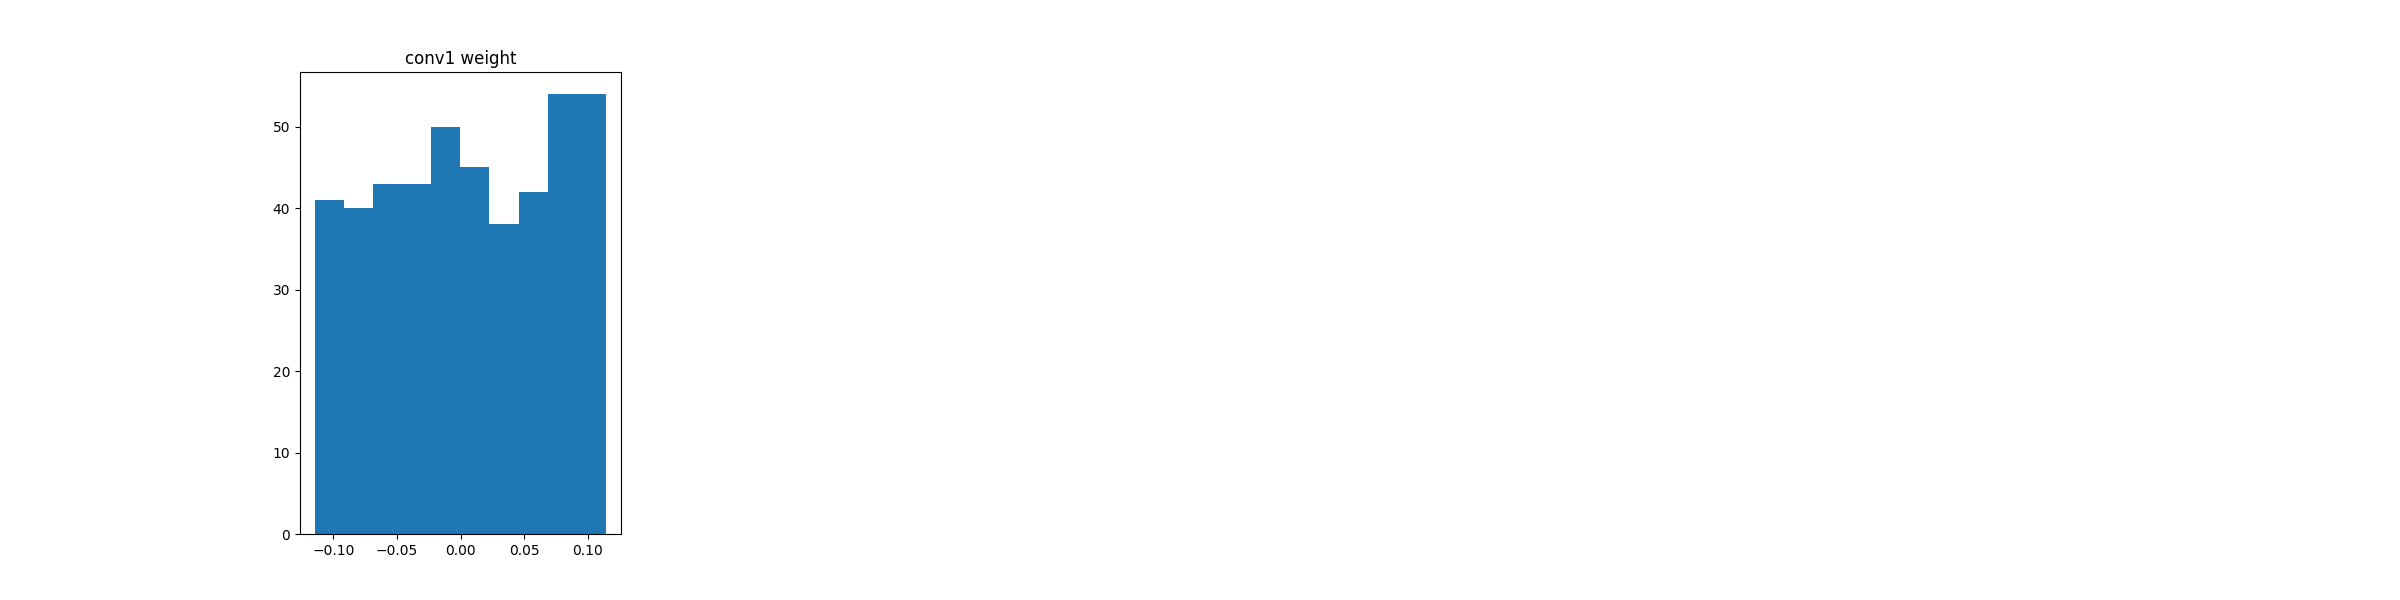
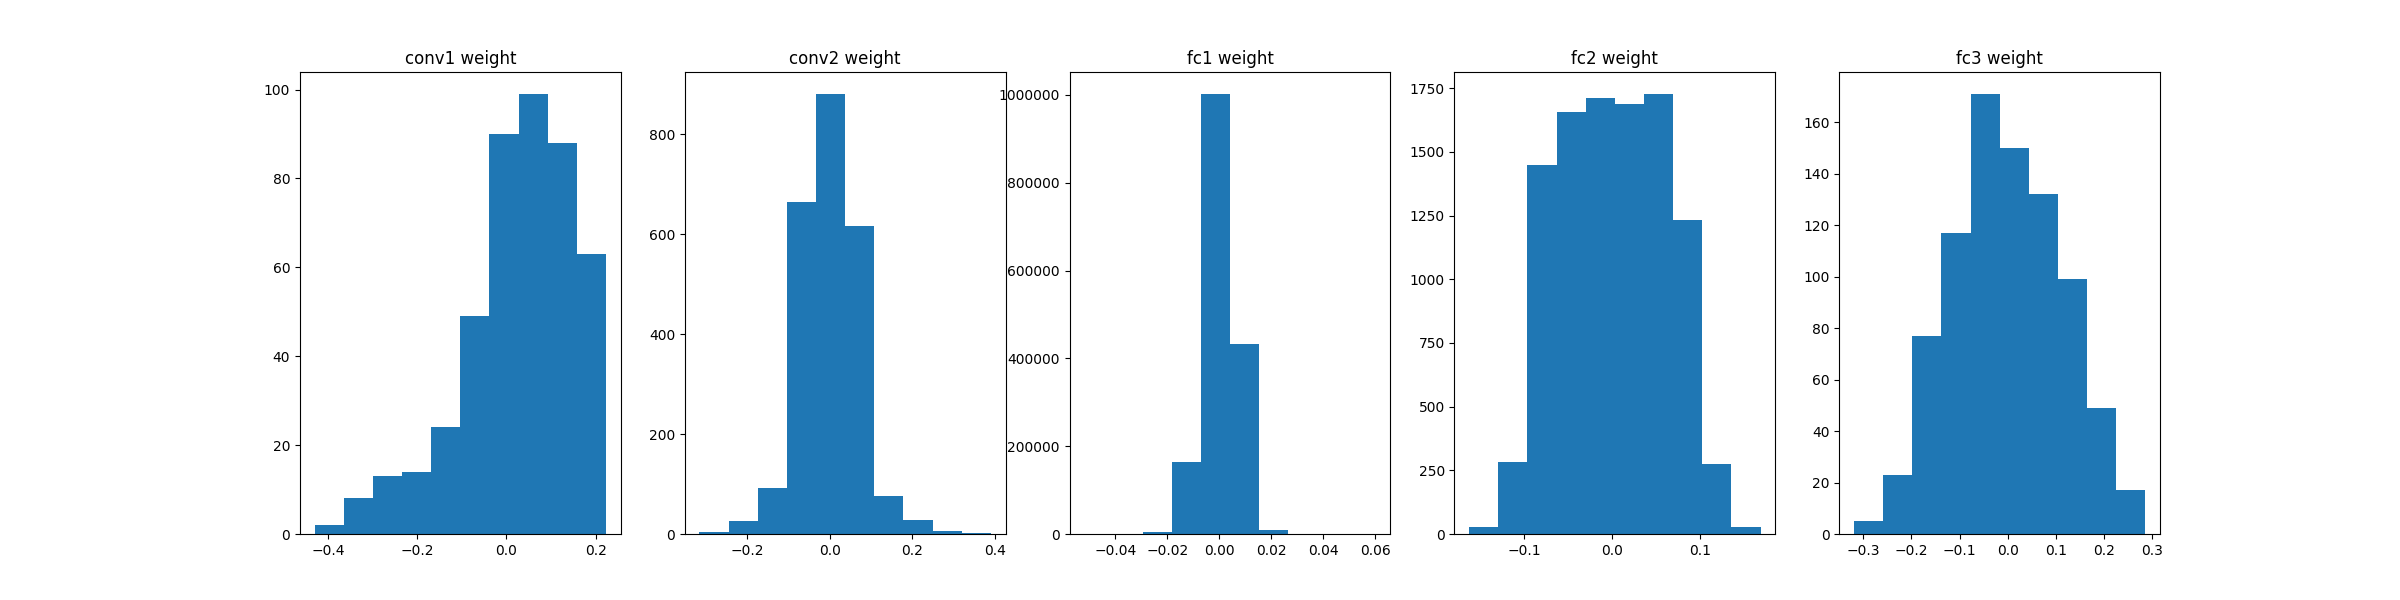
test train

diff --git a/lab2.py b/lab2.py
@@ -59,10 +59,10 @@ class ChineseOCR(object):
         self.train_acc = self.train()
         self.saveModel()
         self.getWeight()
-        self.testShow()
-        #self.test()
+        #self.testShow()
+        self.test()
 
-        #self.showWeights()
+        self.showWeights()
 
     def checkdevice(self):
         # To determine if your system supports CUDA
@@ -251,10 +251,19 @@ class ChineseOCR(object):
         for name, para in self.net.named_parameters():
         #for name, para in self.net.state_dict():
             #print('{}: {}'.format(name, para.shape))
-            self.weights[name] = para.cpu().detach().numpy().reshape([450,],order = 'F')
+            if name == 'conv1.weight':
+              self.weights[name] = para.cpu().detach().numpy().reshape([450,],order = 'F')
+            elif name == 'conv2.weight':
+              self.weights[name] = para.cpu().detach().numpy().reshape([2400,],order = 'F')
+            elif name == 'fc1.weight':
+              self.weights[name] = para.cpu().detach().numpy().reshape([1614720,],order = 'F')
+            elif name == 'fc2.weight':
+              self.weights[name] = para.cpu().detach().numpy().reshape([10080,],order = 'F')
+            elif name == 'fc3.weight':
+              self.weights[name] = para.cpu().detach().numpy().reshape([840,],order = 'F')
             #print(self.weights['conv1.weight'])
-            print(self.weights['conv1.weight'])
-            break
+            #print(self.weights['conv1.weight'])
+            #break
         #print(self.weights['conv1.weight'])
     def testShow(self):
         w_conv1 = self.weights['conv1.weight']
@@ -266,11 +275,11 @@ class ChineseOCR(object):
 
     def showWeights(self):
         # TODO
-        w_conv1 = self.net.conv1
-        w_conv2 = self.net.conv2
-        w_fc1 = self.net.fc1
-        w_fc2 = self.net.fc2 
-        w_fc3 = self.net.fc3
+        w_conv1 = self.weights['conv1.weight']
+        w_conv2 = self.weights['conv2.weight']
+        w_fc1 = self.weights['fc1.weight']
+        w_fc2 = self.weights['fc2.weight'] 
+        w_fc3 = self.weights['fc3.weight']
 
         plt.figure(figsize=(24, 6))
         plt.subplot(1,5,1)
@@ -297,4 +306,4 @@ class ChineseOCR(object):
 
 if __name__ == '__main__':
     # you can adjust your hyperperamers
-    ocr = ChineseOCR('./data', 1, 32, 0.001)
+    ocr = ChineseOCR('./data', 60, 32, 0.001)
